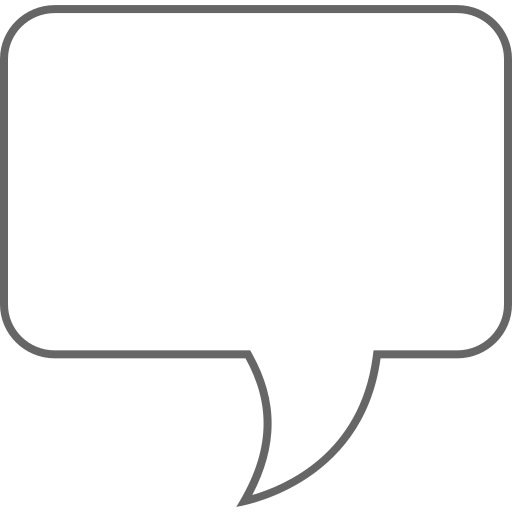
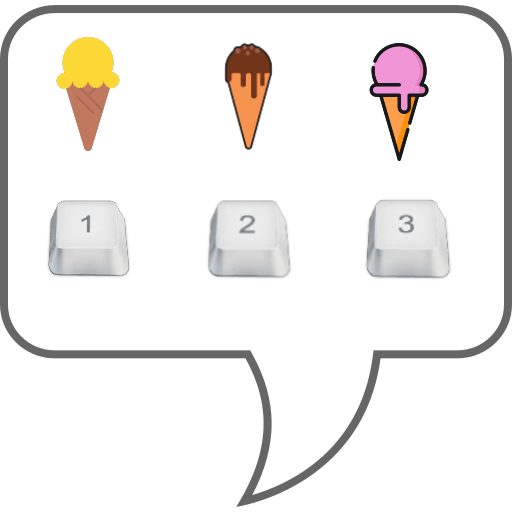
finishing tutorial implementation, ready for final tweaks in CSS

diff --git a/js/component.js b/js/component.js
@@ -10,27 +10,55 @@ class Component {
   }
   render() {
     const ctx = gameBoard.ctx
-    
 
-    if(this.name === 'speech' && gameBoard.isActionKeyPressed){
-      this.posX = player.posX + 100
-      this.posY = player.posY -100
-    } 
-    else if(this.name === 'speech'){
+    //hint to help choose flavours
+    if (
+      this.name === 'speech' &&
+      gameBoard.isActionKeyPressed &&
+      player.isChoosingFlavour
+    ) {
+      this.posX = player.posX
+      this.posY = player.posY - 200
+    }
+    //hidden off canvas when not needed
+    else if (this.name === 'speech') {
       this.posX = gameBoard.canvas.width + 300
       this.posY = gameBoard.canvas.height + 300
     }
     ctx.drawImage(this.img, this.posX, this.posY, this.width, this.height)
   }
   checkCollision(otherComponent) {
+    //offset of 70px for collision each side roughly
+    //spritesheet made of 256x256 blocks
     if (
-      this.posX < otherComponent.posX + otherComponent.width &&
-      this.posX + this.width > otherComponent.posX &&
+      this.posX < otherComponent.posX + 70 + (otherComponent.width - 70) &&
+      this.posX + this.width > otherComponent.posX + 70 &&
       this.posY < otherComponent.posY + otherComponent.height &&
       this.posY + this.height > otherComponent.posY
     ) {
+      switch (this.name) {
+        case 'coneStorage':
+          gameBoard.isAtConeStorage = true
+          gameBoard.isAtMultistorage = false
+          gameBoard.isAtCheckout = false
+          break
+        case 'multistorage':
+          gameBoard.isAtConeStorage = false
+          gameBoard.isAtMultistorage = true
+          gameBoard.isAtCheckout = false
+          break
+        case 'checkoutCounter':
+          gameBoard.isAtConeStorage = false
+          gameBoard.isAtMultistorage = false
+          gameBoard.isAtCheckout = true
+          break
+        default:
+          break
+      }
       return true
     } else {
+      gameBoard.isAtConeStorage = false
+      gameBoard.isAtMultistorage = false
       gameBoard.isAtCheckout = false
       return false
     }

diff --git a/js/gameBoard.js b/js/gameBoard.js
@@ -16,7 +16,7 @@ const gameBoard = {
   isPauseKeyPressed: false,
   //player action triggers
   isAtCheckout: false,
-  isAtMultistorage:false,
+  isAtMultistorage: false,
   isAtConeStorage: false,
   // game states
   isGameOver: false,
@@ -40,7 +40,6 @@ const gameBoard = {
     }
   },
   updateCanvas: function () {
-    console.log(player.frameSkip)
     if (gameBoard.isGamePaused) return
 
     gameBoard.ctx.clearRect(
@@ -80,8 +79,6 @@ const gameBoard = {
       gameBoard.ctx.fillText('+ checkout = Cash ', 500, 200)
     }
 
-
-
     if (gameBoard.isUpKeyPressed) {
       if (player.posY > 200) {
         player.moveUp()
@@ -99,8 +96,7 @@ const gameBoard = {
     }
     if (gameBoard.isRightKeyPressed) {
       if (player.posX < gameBoard.canvas.width - 150) {
-        if(player.posX)
-        player.moveRight()
+        if (player.posX) player.moveRight()
       }
     }
     gameBoard.nonCollisionComponents.forEach((component) => {
@@ -109,15 +105,18 @@ const gameBoard = {
 
     gameBoard.components.forEach((component) => {
       component.render()
-
+   
       if (component !== player && component.checkCollision(player)) {
         if (gameBoard.isActionKeyPressed) {
+      
           player.action(component)
           assembleOrder()
           updateInventory()
-        }
-        if (gameBoard.isAtCheckout && component.name === 'checkoutCounter') {
-          submitOrder()
+          if (gameBoard.isAtCheckout ) {
+            submitOrder()
+          } else{
+            submitFunctionRan = 0
+          }
         }
       }
     })

diff --git a/js/DOM.js b/js/DOM.js
@@ -110,8 +110,8 @@ const startGame = () => {
     speechBubbleImg,
     player.posX,
     player.posY,
-    200,
-    150
+    400,
+    300
   )
 
   gameBoard.nonCollisionComponents.push(iceCreamTable)
@@ -161,7 +161,7 @@ const tutorial = () => {
 
 document.getElementById('next-button').addEventListener('click', () => {
   nextSlide()
-  document.getElementById('tutorial-img').src = `./images/tutorial/tutorial${currentTutorialImage}.png`
+  document.getElementById('tutorial-img').src = `./images/tutorial/tutorial-section${currentTutorialImage}.png`
 })
 
 document.getElementById('skip-button').addEventListener('click', () => {
@@ -170,7 +170,7 @@ document.getElementById('skip-button').addEventListener('click', () => {
 })
 
 const nextSlide = () => {
-  if(currentTutorialImage === 4){
+  if(currentTutorialImage === 8){
     currentTutorialImage = 1
   } else{
     currentTutorialImage++
@@ -270,10 +270,14 @@ document.addEventListener('keyup', ({ key }) => {
     case '2':
     case '3':
       player.isChoosingFlavour = false
+
     case 'i':
       gameBoard.isInstructionsKeyPressed = false
       break
-
+      case 't':
+        testCollisions()
+        checkOrderCycle()
+        checkKeysPressed()
     case ' ':
     case 'enter':
       return

diff --git a/js/tests.js b/js/tests.js
@@ -1,0 +1,27 @@
+const testCollisions = () => {
+    console.group('Testing Collisions')
+    console.log(`Cone Storage ${gameBoard.isAtConeStorage}`)
+    console.log(`multistorage ${gameBoard.isAtMultistorage}`)
+    console.log(`checkout ${gameBoard.isAtCheckout}`)
+    console.log(`player X coordinates ${player.posX}, ${player.posX + player.width}`)
+    console.groupEnd()
+}
+
+const checkOrderCycle = () => {
+    console.group('Testing Order Cycle')
+    console.log(`Player has Cone? ${player.heldItems.cone}`)
+    console.log(`Player Has Ice cream? ${player.heldItems.vanilla || player.heldItems.chocolate || player.heldItems.strawberry}`)
+    console.log(`Ready to Deliver: ${player.readyToDeliver}`)
+    console.log(`Delivered? ${player.readyToDeliver}`)
+    console.groupEnd()
+}
+
+const checkKeysPressed = () => {
+    console.group('Testing Keys Pressed')
+    console.log(`Up key? ${gameBoard.isUpKeyPressed}`)
+    console.log(`Down key? ${gameBoard.isDownKeyPressed}`)
+    console.log(`Left key? ${gameBoard.isLeftKeyPressed}`)
+    console.log(`Right key? ${gameBoard.isRightKeyPressed}`)
+    console.log(`Action key? ${gameBoard.isActionKeyPressed}`)
+    console.groupEnd()
+}

diff --git a/index.html b/index.html
@@ -27,7 +27,7 @@
       rel="stylesheet"
       href="./styles.css"
     />
-    <title>Document</title>
+    <title>Ice Cream Shop</title>
   </head>
   <body>
     <div id="start-screen">
@@ -36,7 +36,7 @@
       <button id="tutorial-button">Tutorial</button>
     </div>
     <div id="tutorial-screen">
-      <img id="tutorial-img" src="./images/tutorial/tutorial1.png" alt="">
+      <img id="tutorial-img" src="./images/tutorial/tutorial-section1.png" alt="">
       <div id="tutorial-buttons-container">
         <button id="skip-button">Skip</button>
         <button id="next-button">Next</button>
@@ -88,6 +88,10 @@
     <script
       type="text/javascript"
       src="./js/DOM.js"
+    ></script>
+    <script
+      type="text/javascript"
+      src="./js/tests.js"
     ></script>
   </body>
 </html>

diff --git a/js/controllers.js b/js/controllers.js
@@ -27,6 +27,7 @@ const assembleOrder = () => {
       player.readyToDeliver = 'strawberry'
     }
   }
+  console.log( player.heldItems,player.readyToDeliver)
 }
 
 let submitFunctionRan = 0
@@ -45,6 +46,7 @@ const submitOrder = () => {
     if (orderFound === -1) {
       // order not found
       gameBoard.combo = 0
+
     } else {
       //order found
       if (gameBoard.orders[orderFound].currentTimeLeft > 15) {
@@ -58,6 +60,7 @@ const submitOrder = () => {
       submitFunctionRan = 1
     }
     // cleanup whether order is valid or not
+    console.log('are we getting here')
     player.readyToDeliver = ''
     player.heldItems.cone = false
     player.heldItems.vanilla = false

diff --git a/js/player.js b/js/player.js
@@ -127,14 +127,12 @@ class Player extends Component {
         this.heldItems.vanilla = false
         this.heldItems.chocolate = false
         this.heldItems.strawberry = false
-        gameBoard.isAtCheckout = false
+        
         break
       case 'multistorage':
         this.isChoosingFlavour = true
-        gameBoard.isAtCheckout = false
         break
       case 'checkoutCounter':
-        gameBoard.isAtCheckout = true
         break
       default:
         break

diff --git a/js/order.js b/js/order.js
@@ -5,7 +5,7 @@ class Order {
         this.img = img
         // Render progress bar in the DOM dynamically
         // so it can be tweaked later for hard mode or special events 
-        this.timePerOrder = 20
+        this.timePerOrder = 40
         this.secondsElapsed = 0
         this.percentageDecrement = 100/this.timePerOrder
         this.currentTimeLeft = 100 //starts at 100 and drops percentage Decrement per secondsElapsed%

diff --git a/styles.css b/styles.css
@@ -56,6 +56,7 @@ button {
 
 #tutorial-screen {
   display: none;
+  position: relative;
   flex-direction: column;
   justify-content: center;
   height: 100vh;
